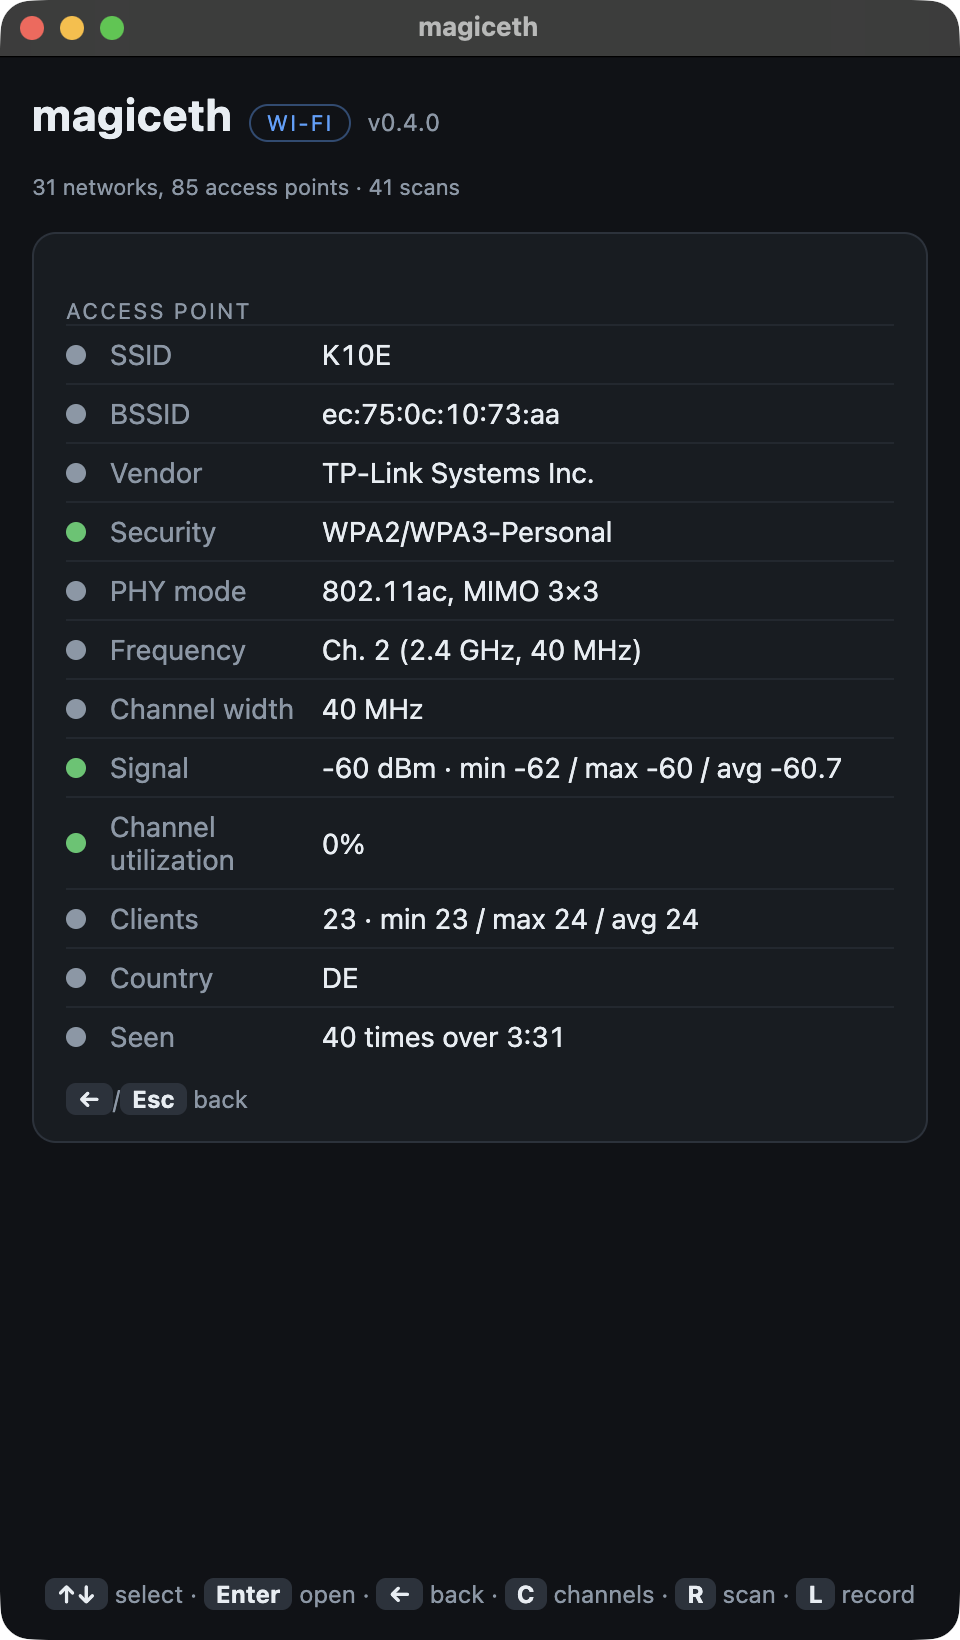
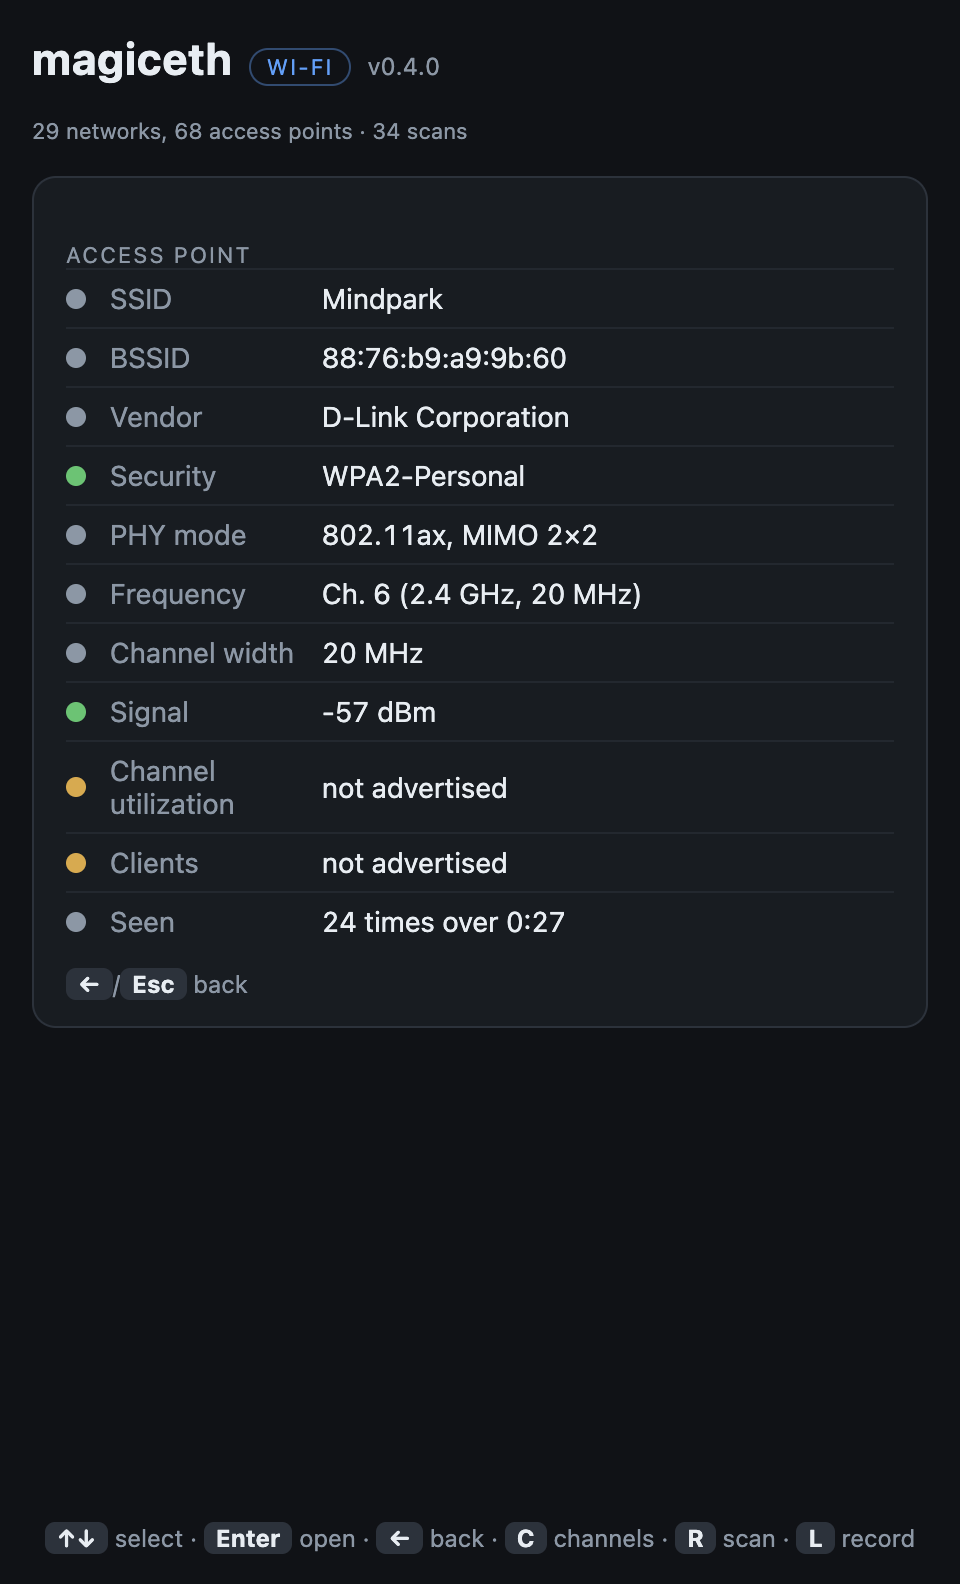
fix: better ui and scroll etc

diff --git a/src/renderer/src/ethernet.ts b/src/renderer/src/ethernet.ts
@@ -18,8 +18,7 @@ import {
   confirmStep,
   consumePending,
   getPending,
-  renderNotice,
-  renderTopbar,
+  renderShell,
   requestRender,
   setMode,
   setNotice,
@@ -390,8 +389,10 @@ function renderEditor(): void {
   const p = editorProfile
   const isStatic = p?.mode === 'static'
   const v = (s?: string): string => escapeHtml(s ?? '')
-  app.innerHTML = `
-    ${renderTopbar()}
+  app.innerHTML = renderShell({
+    key: 'ethernet:editor',
+    footer: 'Fill in with the mouse · <b>Esc</b> cancels',
+    body: `
     <section class="editor">
       <div class="section-title">${p ? 'Edit profile' : 'New profile'}</div>
       <label class="fld">Name<input id="f-name" type="text" value="${v(p?.name)}" /></label>
@@ -413,8 +414,8 @@ function renderEditor(): void {
         <button id="f-save" class="btn primary">Save</button>
         <button id="f-cancel" class="btn">Cancel</button>
       </div>
-    </section>
-    <footer class="hint">Fill in with the mouse · <b>Esc</b> cancels</footer>`
+    </section>`
+  })
 
   const modeSel = document.getElementById('f-mode') as HTMLSelectElement
   const staticFields = document.getElementById('static-fields') as HTMLElement
@@ -465,24 +466,30 @@ async function submitEditor(): Promise<void> {
 
 export function renderEthernet(): string {
   if (adapters.length === 0) {
-    return `
-      ${renderTopbar()}
-      ${renderNotice()}
+    return renderShell({
+      key: 'ethernet:empty',
+      footer: 'waiting for a port… · <b>Tab</b> wi-fi · <b>Esc</b> back',
+      body: `
       <div class="empty">
         <p class="big">No network ports found</p>
         <p class="sub">Plug in a USB ethernet dongle — it is detected automatically.</p>
-      </div>
-      <footer class="hint">waiting for a port… · <b>Tab</b> wi-fi · <b>Esc</b> back</footer>`
+      </div>`
+    })
   }
   const d = adapters[selected]
-  return `
-    ${renderTopbar(running || surveying || measuring || busy)}
-    ${renderNotice()}
-    ${renderSelector()}
+  return renderShell({
+    // Keyed on the adapter, so switching port starts at the top while a re-run of the same one
+    // keeps your place.
+    key: `ethernet:${d.device}`,
+    busy: running || surveying || measuring || busy,
+    // The selector says which port everything below belongs to, so it stays put.
+    status: renderSelector(),
+    footer: `<b>R</b> rerun · <b>M</b> roll MAC · <b>P</b> profiles · <b>I</b> chipset · <b>S</b> save · <b>U</b> undo · <b>C</b> ${surveying ? 'stop' : 'survey'} · <b>T</b> ${measuring ? 'stop' : 'speed'} · <b>Tab</b> wi-fi`,
+    body: `
     ${renderDiagnostics(d)}
     ${renderInfo(d)}
-    ${renderPanel()}
-    <footer class="hint"><b>R</b> rerun · <b>M</b> roll MAC · <b>P</b> profiles · <b>I</b> chipset · <b>S</b> save · <b>U</b> undo · <b>C</b> ${surveying ? 'stop' : 'survey'} · <b>T</b> ${measuring ? 'stop' : 'speed'} · <b>Tab</b> wi-fi</footer>`
+    ${renderPanel()}`
+  })
 }
 
 async function runDiag(device: string): Promise<void> {

diff --git a/src/renderer/src/main.ts b/src/renderer/src/main.ts
@@ -19,21 +19,63 @@ import type { Mode } from './shell'
 import { handleEthernetKey, initEthernet, leaveEthernet, renderEthernet } from './ethernet'
 import { enterWlan, handleWlanKey, initWlan, leaveWlan, renderWlan } from './wlan'
 
+/**
+ * Which row was highlighted at the last paint, as view plus position. Compared rather than stored
+ * as a flag so the selection is only scrolled into view when it actually moved — a push update
+ * arriving while someone is reading further down the list must not drag them back to it.
+ */
+let lastSelection = ''
+
 function render(): void {
   // A form that draws itself also owns repainting, or a background event would wipe what is being
   // typed. The mode raises this flag while its editor is up.
   if (isRenderSuspended()) return
+
+  // Replacing the markup destroys the scrolling element and with it the reader's place. Push
+  // updates land about once a second while scanning, so without this a long list would snap back
+  // to the top continuously — exactly when someone is trying to read it.
+  const previous = app.querySelector<HTMLElement>('.scroll')
+  const previousKey = previous?.dataset.view
+  const offset = previous?.scrollTop ?? 0
+
   switch (getMode()) {
     case 'chooser':
       app.innerHTML = renderChooser()
-      return
+      break
     case 'ethernet':
       app.innerHTML = renderEthernet()
-      return
+      break
     case 'wlan':
       app.innerHTML = renderWlan()
-      return
+      break
   }
+
+  const next = app.querySelector<HTMLElement>('.scroll')
+  // Only the same screen gets its offset back; a different one starts at the top.
+  if (next && previousKey !== undefined && next.dataset.view === previousKey) {
+    // Read a layout property first. Without it the browser may still be holding the previous,
+    // shorter height and will clamp the offset down — which, once per push update, walks a
+    // scrolled list steadily back towards the top.
+    void next.scrollHeight
+    next.scrollTop = offset
+  }
+  followSelection(next)
+}
+
+/**
+ * Keep the highlighted row on screen. Arrow keys move the selection through a list that is taller
+ * than the window, so without this it walks off the bottom and you are left steering something you
+ * cannot see. `block: 'nearest'` scrolls the least it can get away with, and does nothing at all
+ * when the row is already visible.
+ */
+function followSelection(scroll: HTMLElement | null): void {
+  const selected = scroll?.querySelector<HTMLElement>('.sel')
+  const siblings = selected?.parentElement?.children
+  const position = selected && siblings ? [...siblings].indexOf(selected) : -1
+  const selection = `${scroll?.dataset.view ?? ''}#${position}`
+  if (selection === lastSelection) return
+  lastSelection = selection
+  selected?.scrollIntoView({ block: 'nearest' })
 }
 
 /**

diff --git a/src/renderer/src/shell.ts b/src/renderer/src/shell.ts
@@ -110,6 +110,34 @@ export function confirmStep(
   return false
 }
 
+/**
+ * One screen, in the parts the shell puts in fixed places.
+ *
+ * Only `body` scrolls. The topbar, the notice and the status line stay at the top and the key
+ * legend stays at the bottom, because a legend nobody can see is a legend nobody reads.
+ */
+export interface ModeView {
+  /**
+   * Identifies the screen. The scroll position is carried across renders of the same one — push
+   * updates arrive about once a second while scanning — and reset when it changes, so opening a
+   * different screen starts at the top rather than halfway down.
+   */
+  key: string
+  busy?: boolean
+  status?: string
+  body: string
+  footer: string
+}
+
+export function renderShell(view: ModeView): string {
+  return `
+    ${renderTopbar(view.busy)}
+    ${renderNotice()}
+    ${view.status ?? ''}
+    <div class="scroll" data-view="${escapeHtml(view.key)}">${view.body}</div>
+    <footer class="hint">${view.footer}</footer>`
+}
+
 export function renderTopbar(busy = false): string {
   const spinner = busy ? '<span class="spin">⟳</span>' : ''
   const where = mode === 'ethernet' ? 'Ethernet' : mode === 'wlan' ? 'Wi-Fi' : ''
@@ -127,8 +155,10 @@ export function renderNotice(): string {
  * screen would cost the glanceability the whole thing is built around.
  */
 export function renderChooser(): string {
-  return `
-    ${renderTopbar()}
+  return renderShell({
+    key: 'chooser',
+    footer: '<b>1</b>/<b>E</b> ethernet · <b>2</b>/<b>W</b> wi-fi · <b>Tab</b> switches anytime',
+    body: `
     <section class="chooser">
       <div class="mode-card">
         <span class="mode-key">1</span>
@@ -140,6 +170,6 @@ export function renderChooser(): string {
         <h2>Wi-Fi</h2>
         <p>The air around you — every network, the access points behind it, their channels, width, load and signal.</p>
       </div>
-    </section>
-    <footer class="hint"><b>1</b>/<b>E</b> ethernet · <b>2</b>/<b>W</b> wi-fi · <b>Tab</b> switches anytime</footer>`
+    </section>`
+  })
 }

diff --git a/src/renderer/src/wlan.ts b/src/renderer/src/wlan.ts
@@ -17,7 +17,7 @@ import type {
   WifiTrack
 } from '../../shared/types'
 import { clock, escapeHtml, plural, row, rowWithSub } from './view'
-import { renderNotice, renderTopbar, requestRender, setMode, setNotice } from './shell'
+import { renderShell, requestRender, setMode, setNotice } from './shell'
 
 let device = ''
 let result: WifiScanResult | null = null
@@ -374,12 +374,19 @@ export function renderWlan(): string {
       : level === 'networks'
         ? `<b>↑↓</b> select · <b>Enter</b> open · ${channelKey} · <b>S</b> saved · <b>R</b> scan · ${record}`
         : `<b>↑↓</b> select · <b>Enter</b> open · <b>←</b> back · ${channelKey} · <b>R</b> scan · ${record}`
-  return `
-    ${renderTopbar(scanning || recording)}
-    ${renderNotice()}
-    ${status ? `<div class="selector"><span class="selector-hint">${escapeHtml(status)}</span></div>` : ''}
-    ${renderBody()}
-    <footer class="hint">${footer}</footer>`
+  return renderShell({
+    // Which list you are on, and which row you opened — so moving the selection keeps your place
+    // while descending into something else starts at the top.
+    key: `wlan:${level}:${level === 'detail' ? `${netSel}:${apSel}` : level === 'aps' ? netSel : ''}`,
+    busy: scanning || recording,
+    // Live while recording: elapsed time, scans, and the file being written. Worth keeping on
+    // screen while scrolling a long list.
+    status: status
+      ? `<div class="selector"><span class="selector-hint">${escapeHtml(status)}</span></div>`
+      : '',
+    footer,
+    body: renderBody()
+  })
 }
 
 async function resolveDevice(): Promise<string> {

diff --git a/src/renderer/src/styles.css b/src/renderer/src/styles.css
@@ -30,16 +30,32 @@
   margin: 0;
 }
 
+html,
 body {
+  height: 100%;
   background: var(--bg);
   color: var(--text);
 }
 
+/* A fixed frame with one scrolling region inside it, so the key legend at the bottom and the
+   notice at the top are on screen whatever the content does. */
 #app {
   display: flex;
   flex-direction: column;
-  min-height: 100vh;
+  height: 100vh;
   padding: 16px;
+  gap: 16px;
+  overflow: hidden;
+}
+
+/* The only part that moves. `min-height: 0` is what allows a flex child to shrink below its own
+   content; without it this grows to fit and nothing scrolls at all. */
+.scroll {
+  flex: 1 1 auto;
+  min-height: 0;
+  overflow-y: auto;
+  display: flex;
+  flex-direction: column;
   gap: 16px;
 }
 
@@ -137,8 +153,8 @@ body {
   font-size: 14px;
 }
 
+/* No margin-top: auto — the scrolling region above takes the slack and holds this at the bottom. */
 .hint {
-  margin-top: auto;
   color: var(--muted);
   font-size: 12px;
   text-align: center;
@@ -255,10 +271,8 @@ body {
    user is usually scrolled past it. A confirmation prompt you cannot see is worse than none at
    all: the first press looks like it did nothing, so you press again — and that is the press that
    acts. Applies to every notice, not only confirmations. */
+/* Outside the scrolling region, so it is always visible without needing position: sticky. */
 .notice {
-  position: sticky;
-  top: 0;
-  z-index: 2;
   background: color-mix(in srgb, var(--accent) 16%, var(--bg));
   border: 1px solid color-mix(in srgb, var(--accent) 40%, transparent);
   color: var(--text);

diff --git a/docs/ARCHITECTURE.md b/docs/ARCHITECTURE.md
@@ -298,9 +298,32 @@ config-changing key needs confirming. `sortAdapters` and `pickSelected` are pure
 and must never import from `main/`.
 
 A key that changes real configuration (`M`, `U`, applying a profile) acts on the first press for a
-dongle and asks first on a built-in. The prompt goes in the notice bar, which is `position: sticky`
-on purpose — the window scrolls past it, and a confirmation you cannot see is worse than none: the
-first press looks like it did nothing, so you press again, and that is the press that acts.
+dongle and asks first on a built-in. The prompt goes in the notice bar, which sits outside the
+scrolling region and so is always on screen: a confirmation you cannot see is worse than none,
+because the first press looks like it did nothing, so you press again — and that is the press that
+acts.
+
+## One shell, one scrolling region
+
+Every screen is assembled by `renderShell()` in `src/renderer/src/shell.ts` from a `ModeView`: a
+topbar, the notice, an optional pinned status line, the body, and the key legend. Only the body
+scrolls. The frame is fixed because the legend is how anyone discovers what the app does, and a
+legend that scrolls away on any list longer than the window is a legend nobody reads.
+
+Having one function assemble it is what keeps the five screens that need it — both Ethernet states,
+the profile editor, WLAN and the chooser — from drifting apart. `shell.ts` imports neither mode, so
+the graph stays a tree.
+
+Two details in `main.ts` that are easy to lose and hard to notice:
+
+- **The scroll offset is carried across renders of the same screen.** Replacing the markup destroys
+  the scrolling element, and push updates arrive about once a second while scanning, so without
+  this a long list would snap back to the top continuously. `ModeView.key` identifies the screen;
+  a different key starts at the top. The offset is applied _after_ reading a layout property, or
+  the browser clamps it against the previous, shorter height and the list creeps upward.
+- **The selection is scrolled into view only when it moves.** Arrow keys walk a selection through a
+  list taller than the window. Doing this on every render instead would drag the reader back to the
+  selection each time a scan landed.
 
 ## Measuring throughput
 

diff --git a/README.md b/README.md
@@ -46,9 +46,9 @@ orchestrates the OS's own network commands — no custom drivers, no background 
 </p>
 
 <p align="center">
-  <em>Wi-Fi mode in an office: 83 access points across 31 networks, each grouped under the name
-  you would actually recognise it by — the highlighted one is a single network spread over 17
-  access points.</em>
+  <em>Wi-Fi mode in an office: dozens of access points grouped under the network names you would
+  actually recognise them by. The highlighted one is a single network spread over thirteen access
+  points. The key legend stays put however long the list gets.</em>
 </p>
 
 ---
@@ -170,9 +170,9 @@ it; opening an access point shows everything known about it.
 </p>
 
 <p align="center">
-  <em>Opening a network shows every access point serving it — here seventeen, spread across
-  channels 5, 6, 7, 12, 13, 36 and 40 at three different widths. Three of them share channel 6,
-  which is the kind of thing you came to find out.</em>
+  <em>Opening a network shows every access point serving it — here thirteen, across both bands at
+  20, 40 and 160 MHz, with more than one sharing channel 6. That is the kind of thing you came to
+  find out.</em>
 </p>
 
 <p align="center">
@@ -220,9 +220,9 @@ recordings will sync with it.
 
 <p align="center">
   <em>Press <code>C</code> again to group them — the non-overlapping thirds on 2.4 GHz and the
-  named regulatory blocks above it. Here the whole of 2.4 GHz is red at around 53% load while
-  5 GHz carries more access points and more clients at 9%, which is the entire finding in one
-  screen.</em>
+  named regulatory blocks above it. Here the upper two thirds of 2.4 GHz sit near 50% load while
+  5 GHz carries more access points and more clients at a fraction of that, which is the entire
+  finding in one screen.</em>
 </p>
 
 Client counts are what each access point advertises, de-duplicated per radio: one radio

diff --git a/CHANGELOG.md b/CHANGELOG.md
@@ -47,6 +47,12 @@ initial commit already shipped 0.2.0. Tagging starts at 0.3.0.
 
 ### Changed
 
+- **The key legend no longer scrolls away.** The window is a fixed frame now — topbar, notice and
+  status line pinned at the top, the legend pinned at the bottom, and only the middle scrolling —
+  so on a list of 28 networks or 19 channels you can still see what the keys do. Arrow keys carry
+  the scroll with the selection, and your place in a list survives the push updates that arrive
+  while a scan or recording is running.
+
 - The renderer is split into `main` (entry and dispatch), `shell` (mode, notice bar, confirmations),
   `view` (pure formatters), `ethernet` and `wlan`. Ethernet mode behaves exactly as before.
 - `WifiTrack` carries the descriptive attributes of its access point (security, PHY, MIMO streams,

diff --git a/docs/BACKLOG.md b/docs/BACKLOG.md
@@ -186,12 +186,3 @@ Deliberately left alone for now because the fix is a design choice, not a bug fi
 a timer, clear on the next successful action, or clear on any keypress. Note that `runDiag` must
 _not_ clear it on success — `runReconfig` calls `runDiag` immediately after setting its own result
 message, and clearing there would wipe it.
-
-## The window scrolls when a sub-view is open
-
-At the default 480×820, opening the profile panel (`P`) or the chipset view (`I`) pushes the
-content past the bottom of the window. Both sub-views append below the diagnostics card rather than
-replacing it, which keeps the port readout visible but costs a scroll.
-
-Alternative would be to have a sub-view replace the diagnostics body while open. Worth deciding
-deliberately rather than drifting into it.
